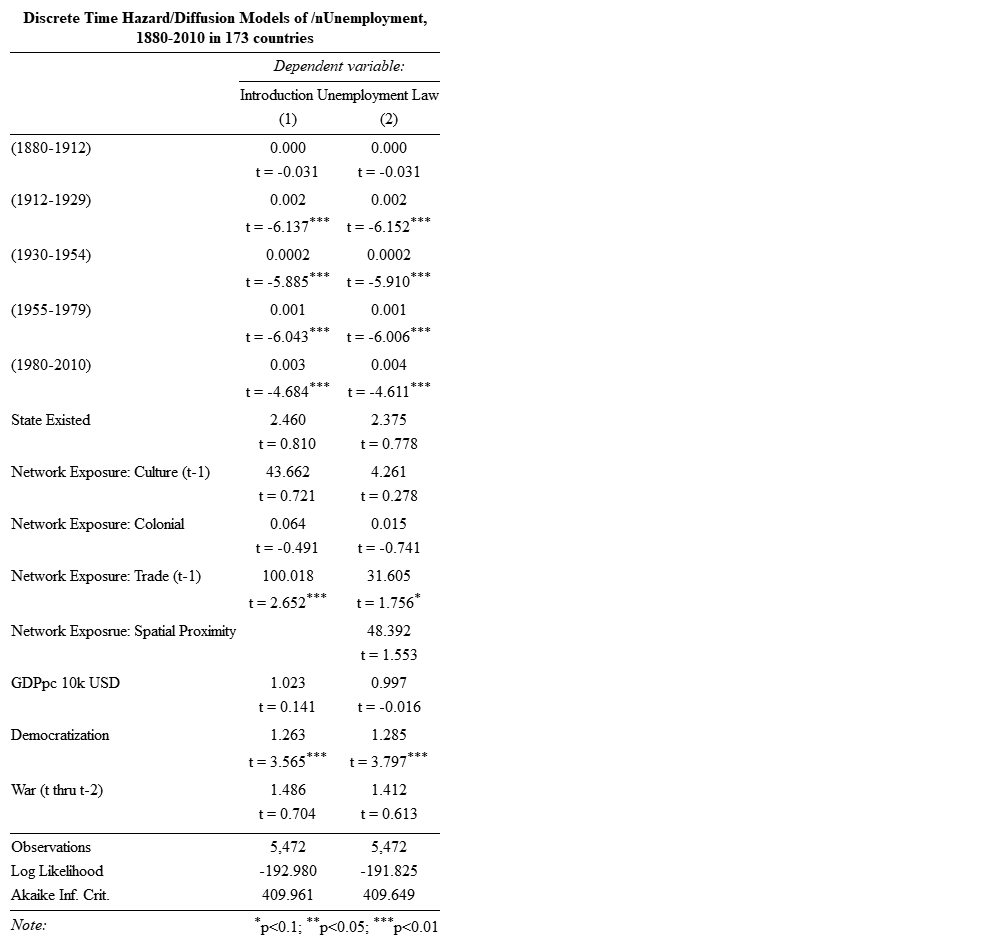
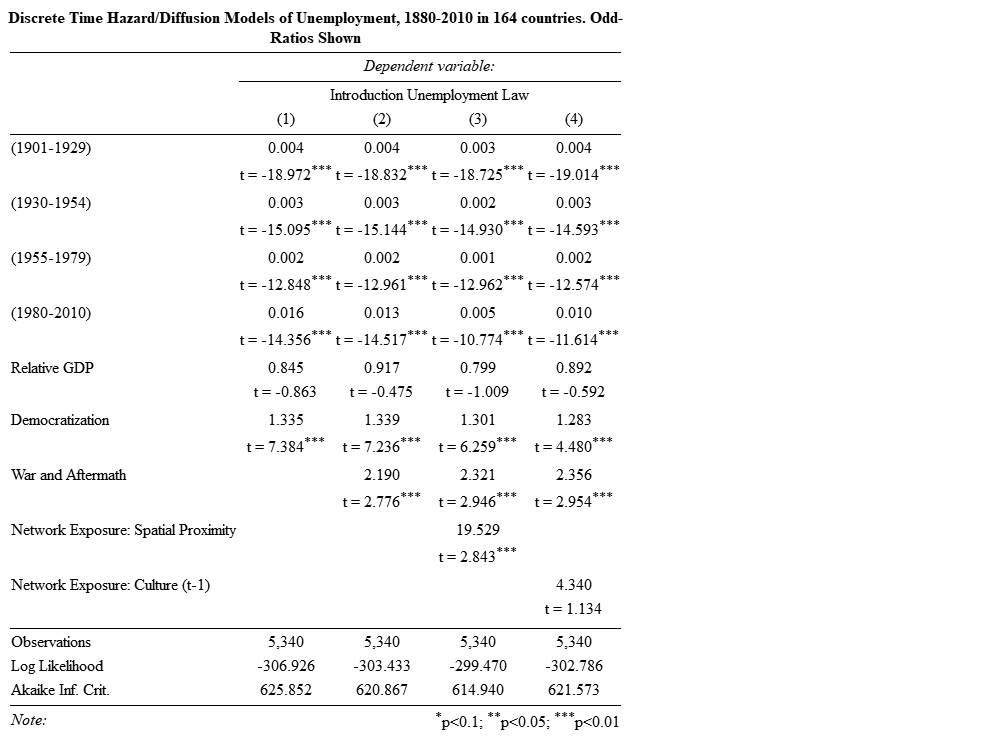
New visualizations and percentage table.

diff --git a/results/Tbl1_OR.htm b/results/Tbl1_OR.htm
@@ -1,38 +1,38 @@
 
-<table style="text-align:center"><caption><strong>Discrete Time Hazard/Diffusion Models of /nUnemployment, 1880-2010 in 173 countries</strong></caption>
-<tr><td colspan="4" style="border-bottom: 1px solid black"></td></tr><tr><td style="text-align:left"></td><td colspan="3"><em>Dependent variable:</em></td></tr>
-<tr><td></td><td colspan="3" style="border-bottom: 1px solid black"></td></tr>
-<tr><td style="text-align:left"></td><td colspan="3">Introduction Unemployment Law</td></tr>
-<tr><td style="text-align:left"></td><td>(1)</td><td>(2)</td><td>(3)</td></tr>
-<tr><td colspan="4" style="border-bottom: 1px solid black"></td></tr><tr><td style="text-align:left">(1901-1929)</td><td>0.004</td><td>0.003</td><td>0.004</td></tr>
-<tr><td style="text-align:left"></td><td>t = -18.832<sup>***</sup></td><td>t = -18.725<sup>***</sup></td><td>t = -19.014<sup>***</sup></td></tr>
-<tr><td style="text-align:left"></td><td></td><td></td><td></td></tr>
-<tr><td style="text-align:left">(1930-1954)</td><td>0.003</td><td>0.002</td><td>0.003</td></tr>
-<tr><td style="text-align:left"></td><td>t = -15.144<sup>***</sup></td><td>t = -14.930<sup>***</sup></td><td>t = -14.593<sup>***</sup></td></tr>
-<tr><td style="text-align:left"></td><td></td><td></td><td></td></tr>
-<tr><td style="text-align:left">(1955-1979)</td><td>0.002</td><td>0.001</td><td>0.002</td></tr>
-<tr><td style="text-align:left"></td><td>t = -12.961<sup>***</sup></td><td>t = -12.962<sup>***</sup></td><td>t = -12.574<sup>***</sup></td></tr>
-<tr><td style="text-align:left"></td><td></td><td></td><td></td></tr>
-<tr><td style="text-align:left">(1980-2010)</td><td>0.013</td><td>0.005</td><td>0.010</td></tr>
-<tr><td style="text-align:left"></td><td>t = -14.517<sup>***</sup></td><td>t = -10.774<sup>***</sup></td><td>t = -11.614<sup>***</sup></td></tr>
-<tr><td style="text-align:left"></td><td></td><td></td><td></td></tr>
-<tr><td style="text-align:left">Relative GDP</td><td>0.917</td><td>0.799</td><td>0.892</td></tr>
-<tr><td style="text-align:left"></td><td>t = -0.475</td><td>t = -1.009</td><td>t = -0.592</td></tr>
-<tr><td style="text-align:left"></td><td></td><td></td><td></td></tr>
-<tr><td style="text-align:left">Democratization</td><td>1.339</td><td>1.301</td><td>1.283</td></tr>
-<tr><td style="text-align:left"></td><td>t = 7.236<sup>***</sup></td><td>t = 6.259<sup>***</sup></td><td>t = 4.480<sup>***</sup></td></tr>
-<tr><td style="text-align:left"></td><td></td><td></td><td></td></tr>
-<tr><td style="text-align:left">War and Aftermath</td><td>2.190</td><td>2.321</td><td>2.356</td></tr>
-<tr><td style="text-align:left"></td><td>t = 2.776<sup>***</sup></td><td>t = 2.946<sup>***</sup></td><td>t = 2.954<sup>***</sup></td></tr>
-<tr><td style="text-align:left"></td><td></td><td></td><td></td></tr>
-<tr><td style="text-align:left">Network Exposure: Spatial Proximity</td><td></td><td>19.529</td><td></td></tr>
-<tr><td style="text-align:left"></td><td></td><td>t = 2.843<sup>***</sup></td><td></td></tr>
-<tr><td style="text-align:left"></td><td></td><td></td><td></td></tr>
-<tr><td style="text-align:left">Network Exposure: Culture (t-1)</td><td></td><td></td><td>4.340</td></tr>
-<tr><td style="text-align:left"></td><td></td><td></td><td>t = 1.134</td></tr>
-<tr><td style="text-align:left"></td><td></td><td></td><td></td></tr>
-<tr><td colspan="4" style="border-bottom: 1px solid black"></td></tr><tr><td style="text-align:left">Observations</td><td>5,340</td><td>5,340</td><td>5,340</td></tr>
-<tr><td style="text-align:left">Log Likelihood</td><td>-303.433</td><td>-299.470</td><td>-302.786</td></tr>
-<tr><td style="text-align:left">Akaike Inf. Crit.</td><td>620.867</td><td>614.940</td><td>621.573</td></tr>
-<tr><td colspan="4" style="border-bottom: 1px solid black"></td></tr><tr><td style="text-align:left"><em>Note:</em></td><td colspan="3" style="text-align:right"><sup>*</sup>p<0.1; <sup>**</sup>p<0.05; <sup>***</sup>p<0.01</td></tr>
+<table style="text-align:center"><caption><strong>Discrete Time Hazard/Diffusion Models of Unemployment, 1880-2010 in 164 countries. Odd-Ratios Shown</strong></caption>
+<tr><td colspan="5" style="border-bottom: 1px solid black"></td></tr><tr><td style="text-align:left"></td><td colspan="4"><em>Dependent variable:</em></td></tr>
+<tr><td></td><td colspan="4" style="border-bottom: 1px solid black"></td></tr>
+<tr><td style="text-align:left"></td><td colspan="4">Introduction Unemployment Law</td></tr>
+<tr><td style="text-align:left"></td><td>(1)</td><td>(2)</td><td>(3)</td><td>(4)</td></tr>
+<tr><td colspan="5" style="border-bottom: 1px solid black"></td></tr><tr><td style="text-align:left">(1901-1929)</td><td>0.004</td><td>0.004</td><td>0.003</td><td>0.004</td></tr>
+<tr><td style="text-align:left"></td><td>t = -18.972<sup>***</sup></td><td>t = -18.832<sup>***</sup></td><td>t = -18.725<sup>***</sup></td><td>t = -19.014<sup>***</sup></td></tr>
+<tr><td style="text-align:left"></td><td></td><td></td><td></td><td></td></tr>
+<tr><td style="text-align:left">(1930-1954)</td><td>0.003</td><td>0.003</td><td>0.002</td><td>0.003</td></tr>
+<tr><td style="text-align:left"></td><td>t = -15.095<sup>***</sup></td><td>t = -15.144<sup>***</sup></td><td>t = -14.930<sup>***</sup></td><td>t = -14.593<sup>***</sup></td></tr>
+<tr><td style="text-align:left"></td><td></td><td></td><td></td><td></td></tr>
+<tr><td style="text-align:left">(1955-1979)</td><td>0.002</td><td>0.002</td><td>0.001</td><td>0.002</td></tr>
+<tr><td style="text-align:left"></td><td>t = -12.848<sup>***</sup></td><td>t = -12.961<sup>***</sup></td><td>t = -12.962<sup>***</sup></td><td>t = -12.574<sup>***</sup></td></tr>
+<tr><td style="text-align:left"></td><td></td><td></td><td></td><td></td></tr>
+<tr><td style="text-align:left">(1980-2010)</td><td>0.016</td><td>0.013</td><td>0.005</td><td>0.010</td></tr>
+<tr><td style="text-align:left"></td><td>t = -14.356<sup>***</sup></td><td>t = -14.517<sup>***</sup></td><td>t = -10.774<sup>***</sup></td><td>t = -11.614<sup>***</sup></td></tr>
+<tr><td style="text-align:left"></td><td></td><td></td><td></td><td></td></tr>
+<tr><td style="text-align:left">Relative GDP</td><td>0.845</td><td>0.917</td><td>0.799</td><td>0.892</td></tr>
+<tr><td style="text-align:left"></td><td>t = -0.863</td><td>t = -0.475</td><td>t = -1.009</td><td>t = -0.592</td></tr>
+<tr><td style="text-align:left"></td><td></td><td></td><td></td><td></td></tr>
+<tr><td style="text-align:left">Democratization</td><td>1.335</td><td>1.339</td><td>1.301</td><td>1.283</td></tr>
+<tr><td style="text-align:left"></td><td>t = 7.384<sup>***</sup></td><td>t = 7.236<sup>***</sup></td><td>t = 6.259<sup>***</sup></td><td>t = 4.480<sup>***</sup></td></tr>
+<tr><td style="text-align:left"></td><td></td><td></td><td></td><td></td></tr>
+<tr><td style="text-align:left">War and Aftermath</td><td></td><td>2.190</td><td>2.321</td><td>2.356</td></tr>
+<tr><td style="text-align:left"></td><td></td><td>t = 2.776<sup>***</sup></td><td>t = 2.946<sup>***</sup></td><td>t = 2.954<sup>***</sup></td></tr>
+<tr><td style="text-align:left"></td><td></td><td></td><td></td><td></td></tr>
+<tr><td style="text-align:left">Network Exposure: Spatial Proximity</td><td></td><td></td><td>19.529</td><td></td></tr>
+<tr><td style="text-align:left"></td><td></td><td></td><td>t = 2.843<sup>***</sup></td><td></td></tr>
+<tr><td style="text-align:left"></td><td></td><td></td><td></td><td></td></tr>
+<tr><td style="text-align:left">Network Exposure: Culture (t-1)</td><td></td><td></td><td></td><td>4.340</td></tr>
+<tr><td style="text-align:left"></td><td></td><td></td><td></td><td>t = 1.134</td></tr>
+<tr><td style="text-align:left"></td><td></td><td></td><td></td><td></td></tr>
+<tr><td colspan="5" style="border-bottom: 1px solid black"></td></tr><tr><td style="text-align:left">Observations</td><td>5,340</td><td>5,340</td><td>5,340</td><td>5,340</td></tr>
+<tr><td style="text-align:left">Log Likelihood</td><td>-306.926</td><td>-303.433</td><td>-299.470</td><td>-302.786</td></tr>
+<tr><td style="text-align:left">Akaike Inf. Crit.</td><td>625.852</td><td>620.867</td><td>614.940</td><td>621.573</td></tr>
+<tr><td colspan="5" style="border-bottom: 1px solid black"></td></tr><tr><td style="text-align:left"><em>Note:</em></td><td colspan="4" style="text-align:right"><sup>*</sup>p<0.1; <sup>**</sup>p<0.05; <sup>***</sup>p<0.01</td></tr>
 </table>

diff --git a/results/models_final2.htm b/results/models_final2.htm
@@ -1,0 +1,38 @@
+
+<table style="text-align:center"><caption><strong>Diffusion of Work-Inury Law - Cultural Spheres Network</strong></caption>
+<tr><td colspan="4" style="border-bottom: 1px solid black"></td></tr><tr><td style="text-align:left"></td><td colspan="3"><em>Dependent variable:</em></td></tr>
+<tr><td></td><td colspan="3" style="border-bottom: 1px solid black"></td></tr>
+<tr><td style="text-align:left"></td><td colspan="3">Introduction of Unemployment</td></tr>
+<tr><td style="text-align:left"></td><td>(1)</td><td>(2)</td><td>(3)</td></tr>
+<tr><td colspan="4" style="border-bottom: 1px solid black"></td></tr><tr><td style="text-align:left">(1901-1929)</td><td>0.004<sup>***</sup></td><td>0.003<sup>***</sup></td><td>0.004<sup>***</sup></td></tr>
+<tr><td style="text-align:left"></td><td></td><td></td><td></td></tr>
+<tr><td style="text-align:left"></td><td></td><td></td><td></td></tr>
+<tr><td style="text-align:left">(1930-1954)</td><td>0.003<sup>***</sup></td><td>0.002<sup>***</sup></td><td>0.003<sup>***</sup></td></tr>
+<tr><td style="text-align:left"></td><td></td><td></td><td></td></tr>
+<tr><td style="text-align:left"></td><td></td><td></td><td></td></tr>
+<tr><td style="text-align:left">(1955-1979)</td><td>0.002<sup>***</sup></td><td>0.001<sup>***</sup></td><td>0.002<sup>***</sup></td></tr>
+<tr><td style="text-align:left"></td><td></td><td></td><td></td></tr>
+<tr><td style="text-align:left"></td><td></td><td></td><td></td></tr>
+<tr><td style="text-align:left">(1980-2010)</td><td>0.013<sup>***</sup></td><td>0.005<sup>***</sup></td><td>0.010<sup>***</sup></td></tr>
+<tr><td style="text-align:left"></td><td></td><td></td><td></td></tr>
+<tr><td style="text-align:left"></td><td></td><td></td><td></td></tr>
+<tr><td style="text-align:left">Relative GDP</td><td>0.917</td><td>0.799</td><td>0.892</td></tr>
+<tr><td style="text-align:left"></td><td></td><td></td><td></td></tr>
+<tr><td style="text-align:left"></td><td></td><td></td><td></td></tr>
+<tr><td style="text-align:left">Democratization</td><td>1.339<sup>***</sup></td><td>1.301<sup>***</sup></td><td>1.283<sup>***</sup></td></tr>
+<tr><td style="text-align:left"></td><td></td><td></td><td></td></tr>
+<tr><td style="text-align:left"></td><td></td><td></td><td></td></tr>
+<tr><td style="text-align:left">War and Aftermath</td><td>2.190<sup>**</sup></td><td>2.321<sup>**</sup></td><td>2.356<sup>**</sup></td></tr>
+<tr><td style="text-align:left"></td><td></td><td></td><td></td></tr>
+<tr><td style="text-align:left"></td><td></td><td></td><td></td></tr>
+<tr><td style="text-align:left">Network Exposure: Spatial Proximity</td><td></td><td>19.529<sup>*</sup></td><td></td></tr>
+<tr><td style="text-align:left"></td><td></td><td></td><td></td></tr>
+<tr><td style="text-align:left"></td><td></td><td></td><td></td></tr>
+<tr><td style="text-align:left">Network Exposure: Culture (t-1)</td><td></td><td></td><td>4.340</td></tr>
+<tr><td style="text-align:left"></td><td></td><td></td><td></td></tr>
+<tr><td style="text-align:left"></td><td></td><td></td><td></td></tr>
+<tr><td colspan="4" style="border-bottom: 1px solid black"></td></tr><tr><td style="text-align:left">Observations</td><td>5340</td><td>5340</td><td>5340</td></tr>
+<tr><td style="text-align:left">Log Likelihood</td><td>-303.433</td><td>-299.47</td><td>-302.786</td></tr>
+<tr><td style="text-align:left">Akaike Inf. Crit.</td><td>620.867</td><td>614.94</td><td>621.573</td></tr>
+<tr><td colspan="4" style="border-bottom: 1px solid black"></td></tr><tr><td style="text-align:left"><em>Note:</em></td><td colspan="3" style="text-align:right">+ p < 0.1; * p < 0.05; ** p < 0.01; *** p < 0.001</td></tr>
+</table>
